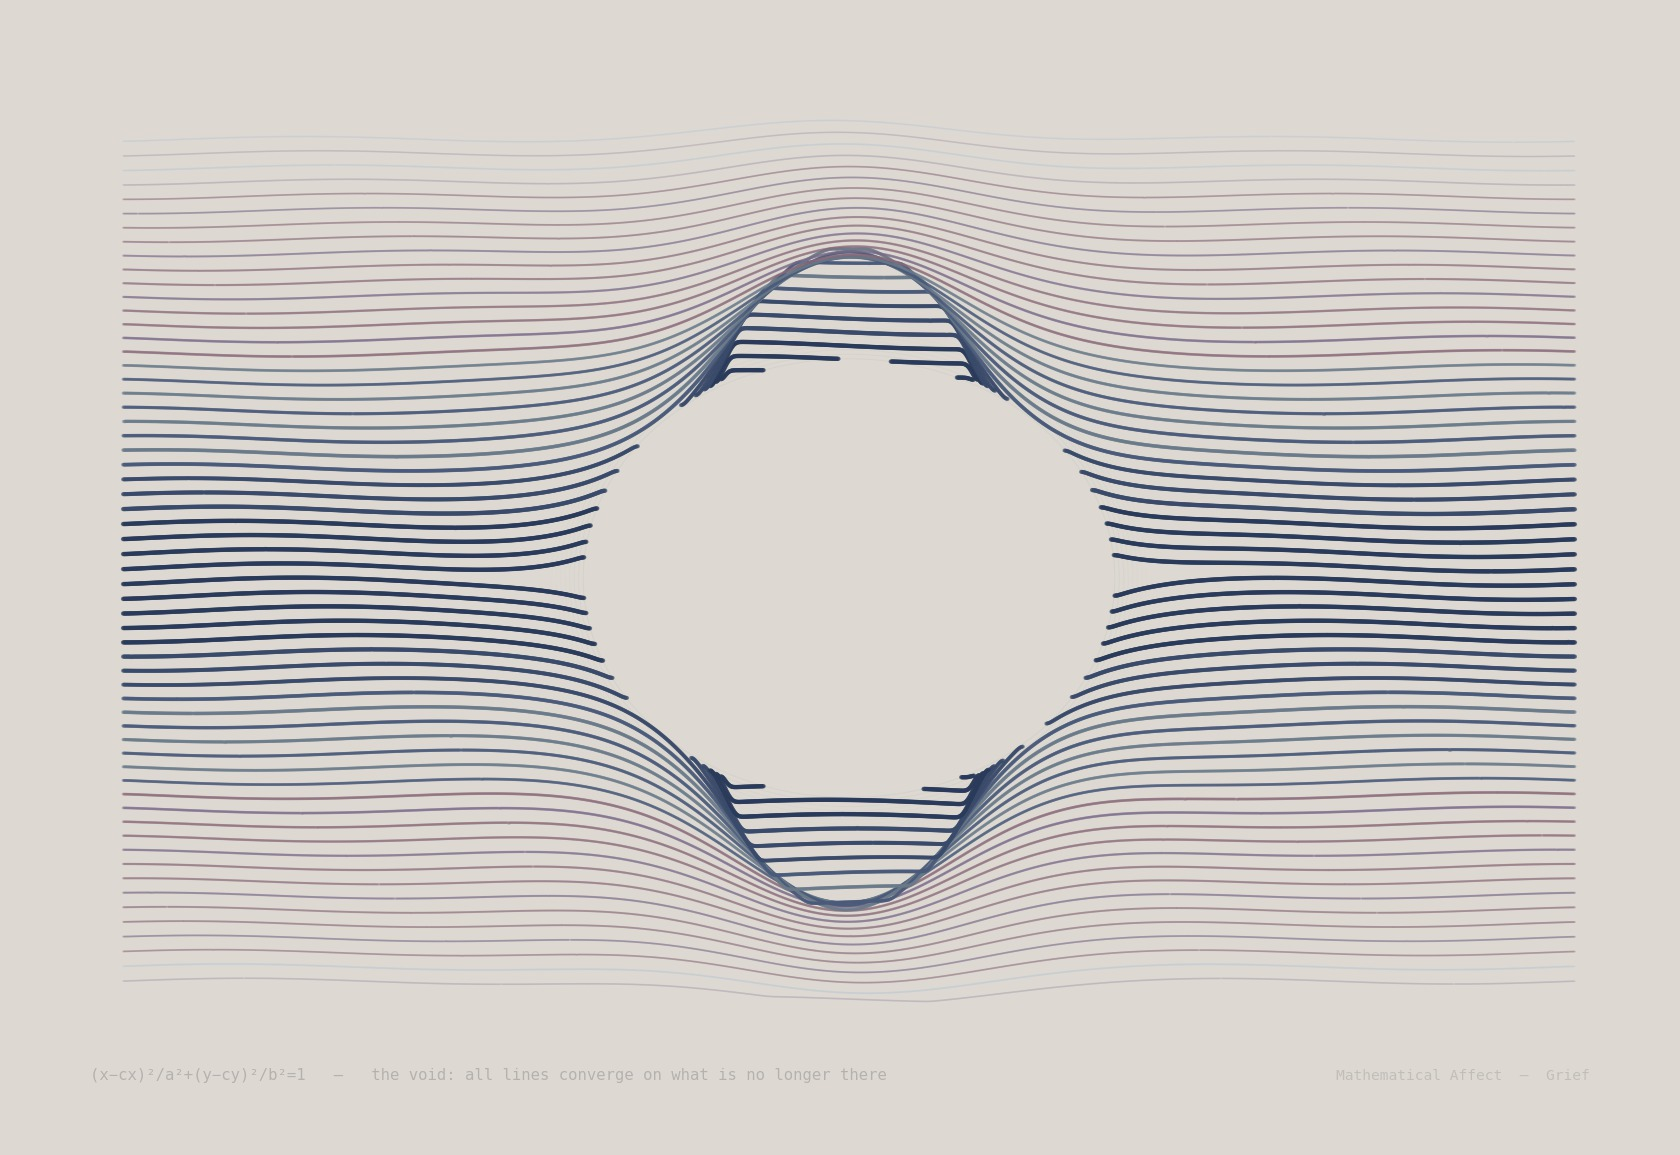
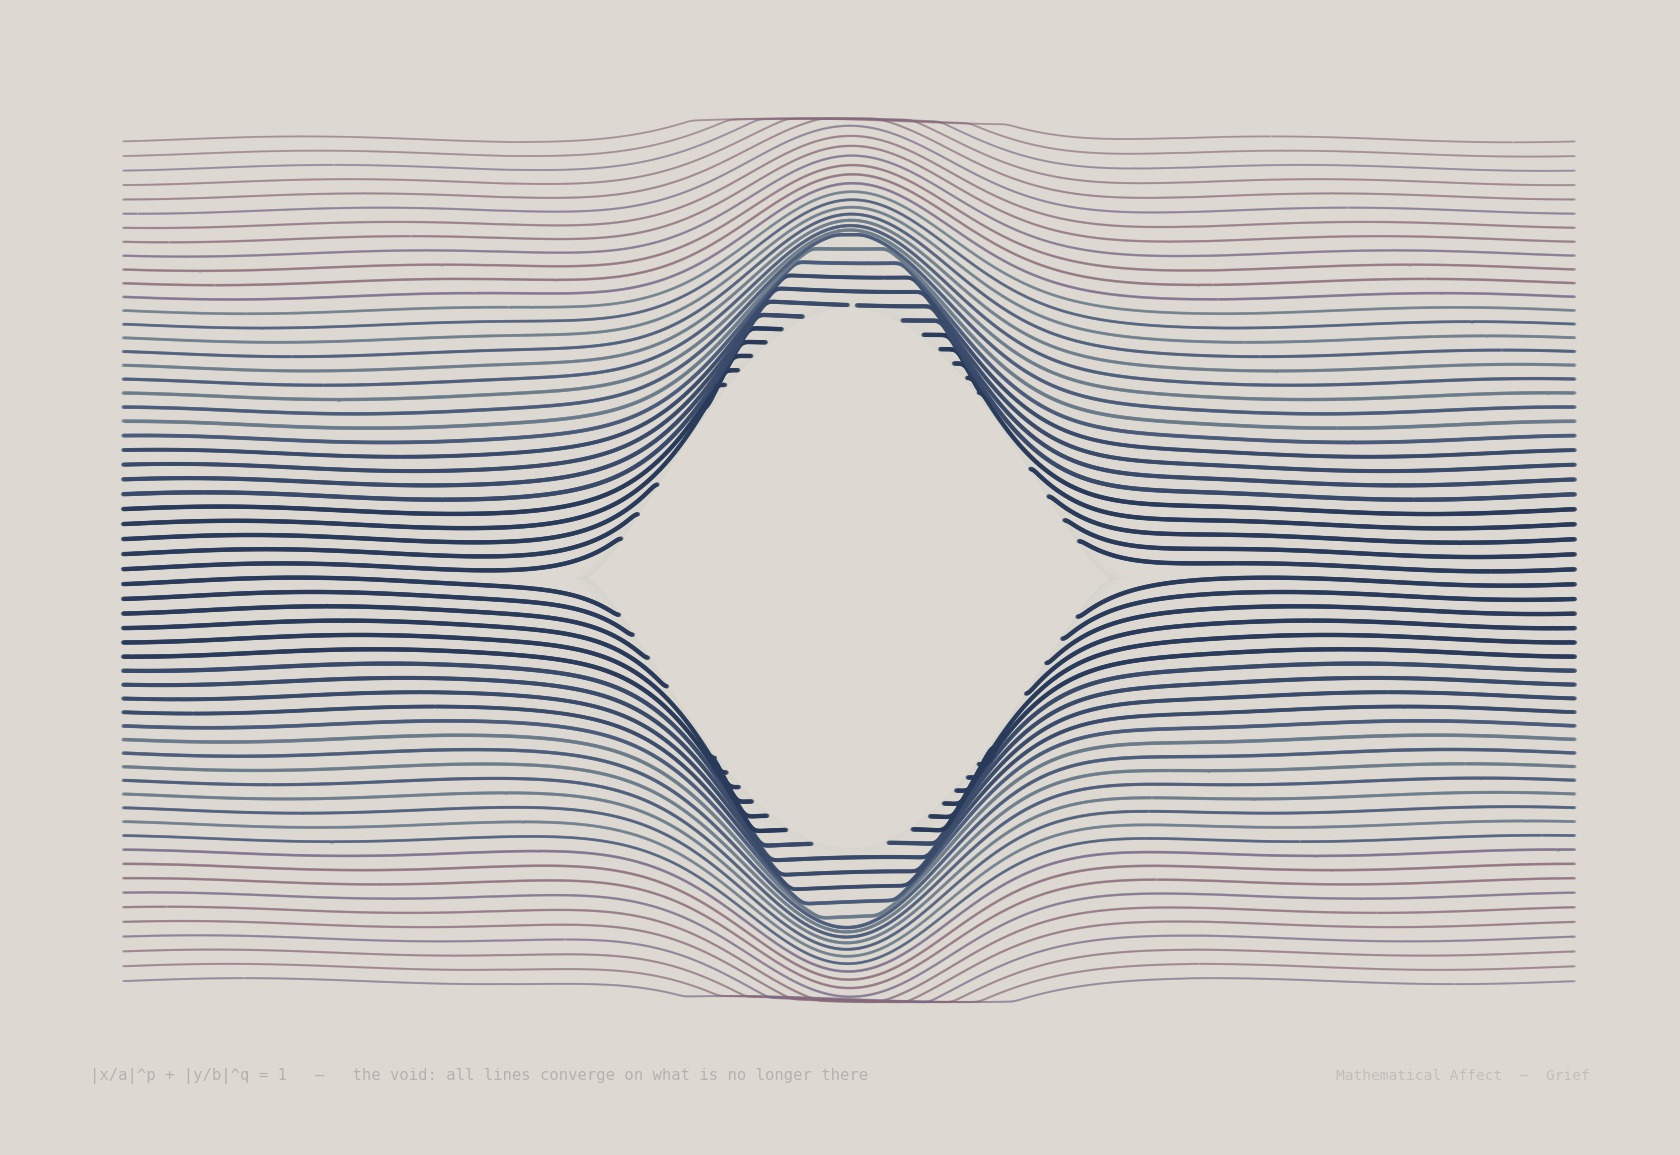
Update grief series: pointier void, multi-source heat diffusion, new picks
Void revised with superellipse q=0.7 for sharp diamond vertices.
Heat diffusion now uses 4 offset sources for artistic spread.
Final 5: Void, Weight, Heaviside Cascade, Absence, Heat Diffusion.
Removed Drift and Spectral Erosion.

Changed region(s): [[0.0619, 0.0935, 0.9286, 0.8727]]

diff --git a/src/data/series.ts b/src/data/series.ts
@@ -133,11 +133,11 @@ export const series: Series[] = [
     palette: ["#7A8B9A", "#9A8A9A", "#C8D4E0", "#A0A8B0", "#D0C8D0"],
     makingOf: "83 renders. 5 survived.",
     pieces: [
-      { id: "grief-void", title: "Void", series: "grief", equation: "(x−cx)²/a²+(y−cy)²/b²=1", description: "Lines flow around an empty elliptical center — crowding toward the absence but never entering. The void is the subject.", emotionalNote: "All lines converge on what is no longer there", background: "#DDD9D2", imageUrl: "/prints/grief/grief_void.jpg", gumroadUrl: "https://gumroad.com/l/placeholder", price: 22 },
-      { id: "grief-weight", title: "Weight", series: "grief", equation: "y(x)=a·cosh((x−c)/a)", description: "Catenary curves sagging under increasing load — cables hanging from two fixed points, each heavier than the last.", emotionalNote: "The weight that bends everything down", background: "#DDD9D2", imageUrl: "/prints/grief/grief_weight.jpg", gumroadUrl: "https://gumroad.com/l/placeholder", price: 22 },
-      { id: "grief-heat-diffusion", title: "Heat Diffusion", series: "grief", equation: "∂u/∂t=α·∂²u/∂x²", description: "A sharp initial pulse diffusing over time — the cathedral spire of presence that spreads to flatline.", emotionalNote: "The sharp edge of presence diffuses into nothing", background: "#DDD9D2", imageUrl: "/prints/grief/grief_heat_diffusion.jpg", gumroadUrl: "https://gumroad.com/l/placeholder", price: 22 },
-      { id: "grief-drift", title: "Drift", series: "grief", equation: "dx=v·dt+σ·dW", description: "Particles scattering from a central point by Brownian motion — things that were together, drifting irrevocably apart.", emotionalNote: "Scattering from a center that can no longer hold", background: "#DDD9D2", imageUrl: "/prints/grief/grief_drift.jpg", gumroadUrl: "https://gumroad.com/l/placeholder", price: 22 },
-      { id: "grief-spectral-erosion", title: "Spectral Erosion", series: "grief", equation: "fₙ(t)=Σ(1/k)·sin(kωt+φₖ)", description: "A Fourier series progressively losing higher harmonics — rich texture collapsing to a bare fundamental tone.", emotionalNote: "Detail lost, only the root tone remains", background: "#DDD9D2", imageUrl: "/prints/grief/grief_spectral_erosion.jpg", gumroadUrl: "https://gumroad.com/l/placeholder", price: 22 },
+      { id: "grief-void", title: "Void", series: "grief", equation: "|x/a|^p + |y/b|^q = 1", description: "Lines flow around an empty diamond-shaped center — crowding toward the absence but never entering. A superellipse with sharp vertices at top and bottom.", emotionalNote: "All lines converge on what is no longer there", background: "#DDD9D2", imageUrl: "/prints/grief/grief_void.jpg", gumroadUrl: "https://gumroad.com/l/placeholder", price: 22 },
+      { id: "grief-weight", title: "Weight", series: "grief", equation: "y(x) = a·cosh((x−c)/a)", description: "Catenary curves sagging under increasing load — cables hanging from two fixed points, each heavier than the last.", emotionalNote: "The weight that bends everything down", background: "#DDD9D2", imageUrl: "/prints/grief/grief_weight.jpg", gumroadUrl: "https://gumroad.com/l/placeholder", price: 22 },
+      { id: "grief-heaviside-cascade", title: "Heaviside Cascade", series: "grief", equation: "H(t−tₙ) = {0, t<tₙ; 1, t≥tₙ}", description: "Stacked Heaviside step functions — each drop a sudden, irreversible loss. The staircase only descends.", emotionalNote: "Each step down is permanent", background: "#DDD9D2", imageUrl: "/prints/grief/grief_heaviside_cascade.jpg", gumroadUrl: "https://gumroad.com/l/placeholder", price: 22 },
+      { id: "grief-absence", title: "Absence", series: "grief", equation: "f(x) = Σ aₙ·e^(−λₙt)·cos(nπx)", description: "Fourier modes decaying at different rates — the complex shape of presence dissolving into silence, harmonic by harmonic.", emotionalNote: "What remains when all the frequencies fade", background: "#DDD9D2", imageUrl: "/prints/grief/grief_absence.jpg", gumroadUrl: "https://gumroad.com/l/placeholder", price: 22 },
+      { id: "grief-heat-diffusion", title: "Heat Diffusion", series: "grief", equation: "∂u/∂t = α·∂²u/∂x²", description: "Multiple heat sources diffusing over time — sharp spires of presence that spread and flatten into nothing.", emotionalNote: "The sharp edge of presence diffuses into nothing", background: "#DDD9D2", imageUrl: "/prints/grief/grief_heat_diffusion.jpg", gumroadUrl: "https://gumroad.com/l/placeholder", price: 22 },
     ],
     bundleGumroadUrl: "https://gumroad.com/l/placeholder-grief-bundle",
     bundlePrice: 82,
